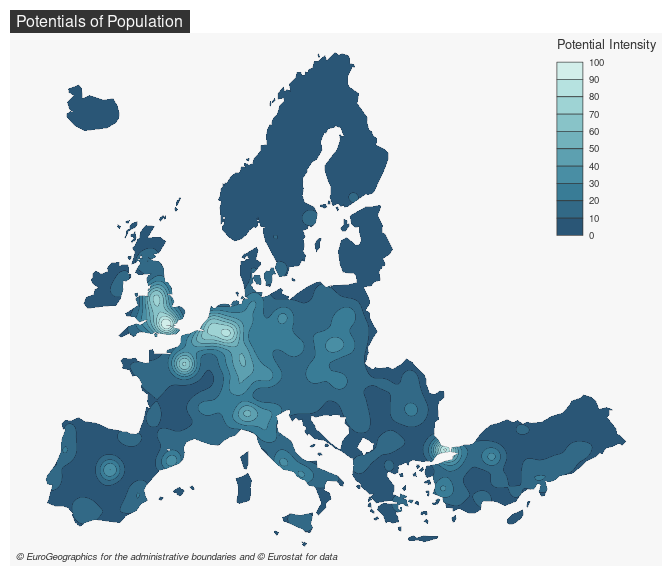
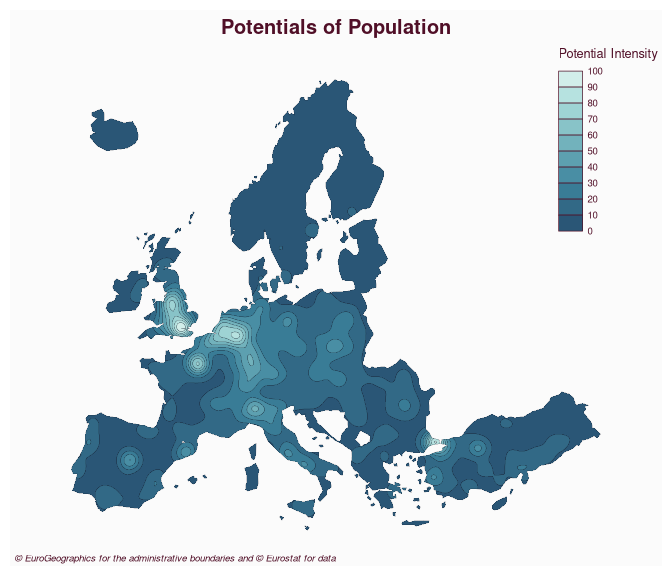
fix: update mapsf usage

diff --git a/README.md b/README.md
@@ -2,8 +2,9 @@
 # potential <img src="man/figures/logo.png" align="right" width="140"/>
 
 [![](https://www.r-pkg.org/badges/version/potential)](https://cran.r-project.org/package=potential)
-[![R-CMD-check](https://github.com/riatelab/potential/workflows/R-CMD-check/badge.svg)](https://github.com/riatelab/potential/actions)
-[![codecov](https://codecov.io/gh/riatelab/potential/branch/master/graph/badge.svg?token=G8MZTHC9KQ)](https://app.codecov.io/gh/riatelab/potential)
+[![R-CMD-check](https://github.com/riatelab/potential/actions/workflows/R-CMD-check.yaml/badge.svg)](https://github.com/riatelab/potential/actions/workflows/R-CMD-check.yaml)
+[![Codecov test
+coverage](https://codecov.io/gh/riatelab/potential/graph/badge.svg)](https://app.codecov.io/gh/riatelab/potential)
 [![Project Status: Active – The project has reached a stable, usable
 state and is being actively
 developed.](https://www.repostatus.org/badges/latest/active.svg)](https://www.repostatus.org/#active)
@@ -14,9 +15,9 @@ the model, for example it is possible to fine-tune the distance friction
 functions or to use custom distance matrices. Some computations are
 parallelized to improve their efficiency.
 
--   [**Website**](https://riatelab.github.io/potential/)  
--   [**Vignette**](https://riatelab.github.io/potential/articles/potential.html)  
--   [**Blog post**](https://rgeomatic.hypotheses.org/2023)
+- [**Website**](https://riatelab.github.io/potential/)  
+- [**Vignette**](https://riatelab.github.io/potential/articles/potential.html)  
+- [**Blog post**](https://rgeomatic.hypotheses.org/2023)
 
 ## Installation
 
@@ -62,7 +63,6 @@ y$pot <- pot / max(pot) * 100
 bks <- seq(0, 100, length.out = 11)
 equipot <- equipotential(y, var = "pot", breaks = bks, mask = n3_poly)
 # map potentials
-mf_theme("default")
 mf_map(x = equipot, var = "min", type = "choro", 
        breaks = bks, 
        pal = hcl.colors(10, 'Teal'),
